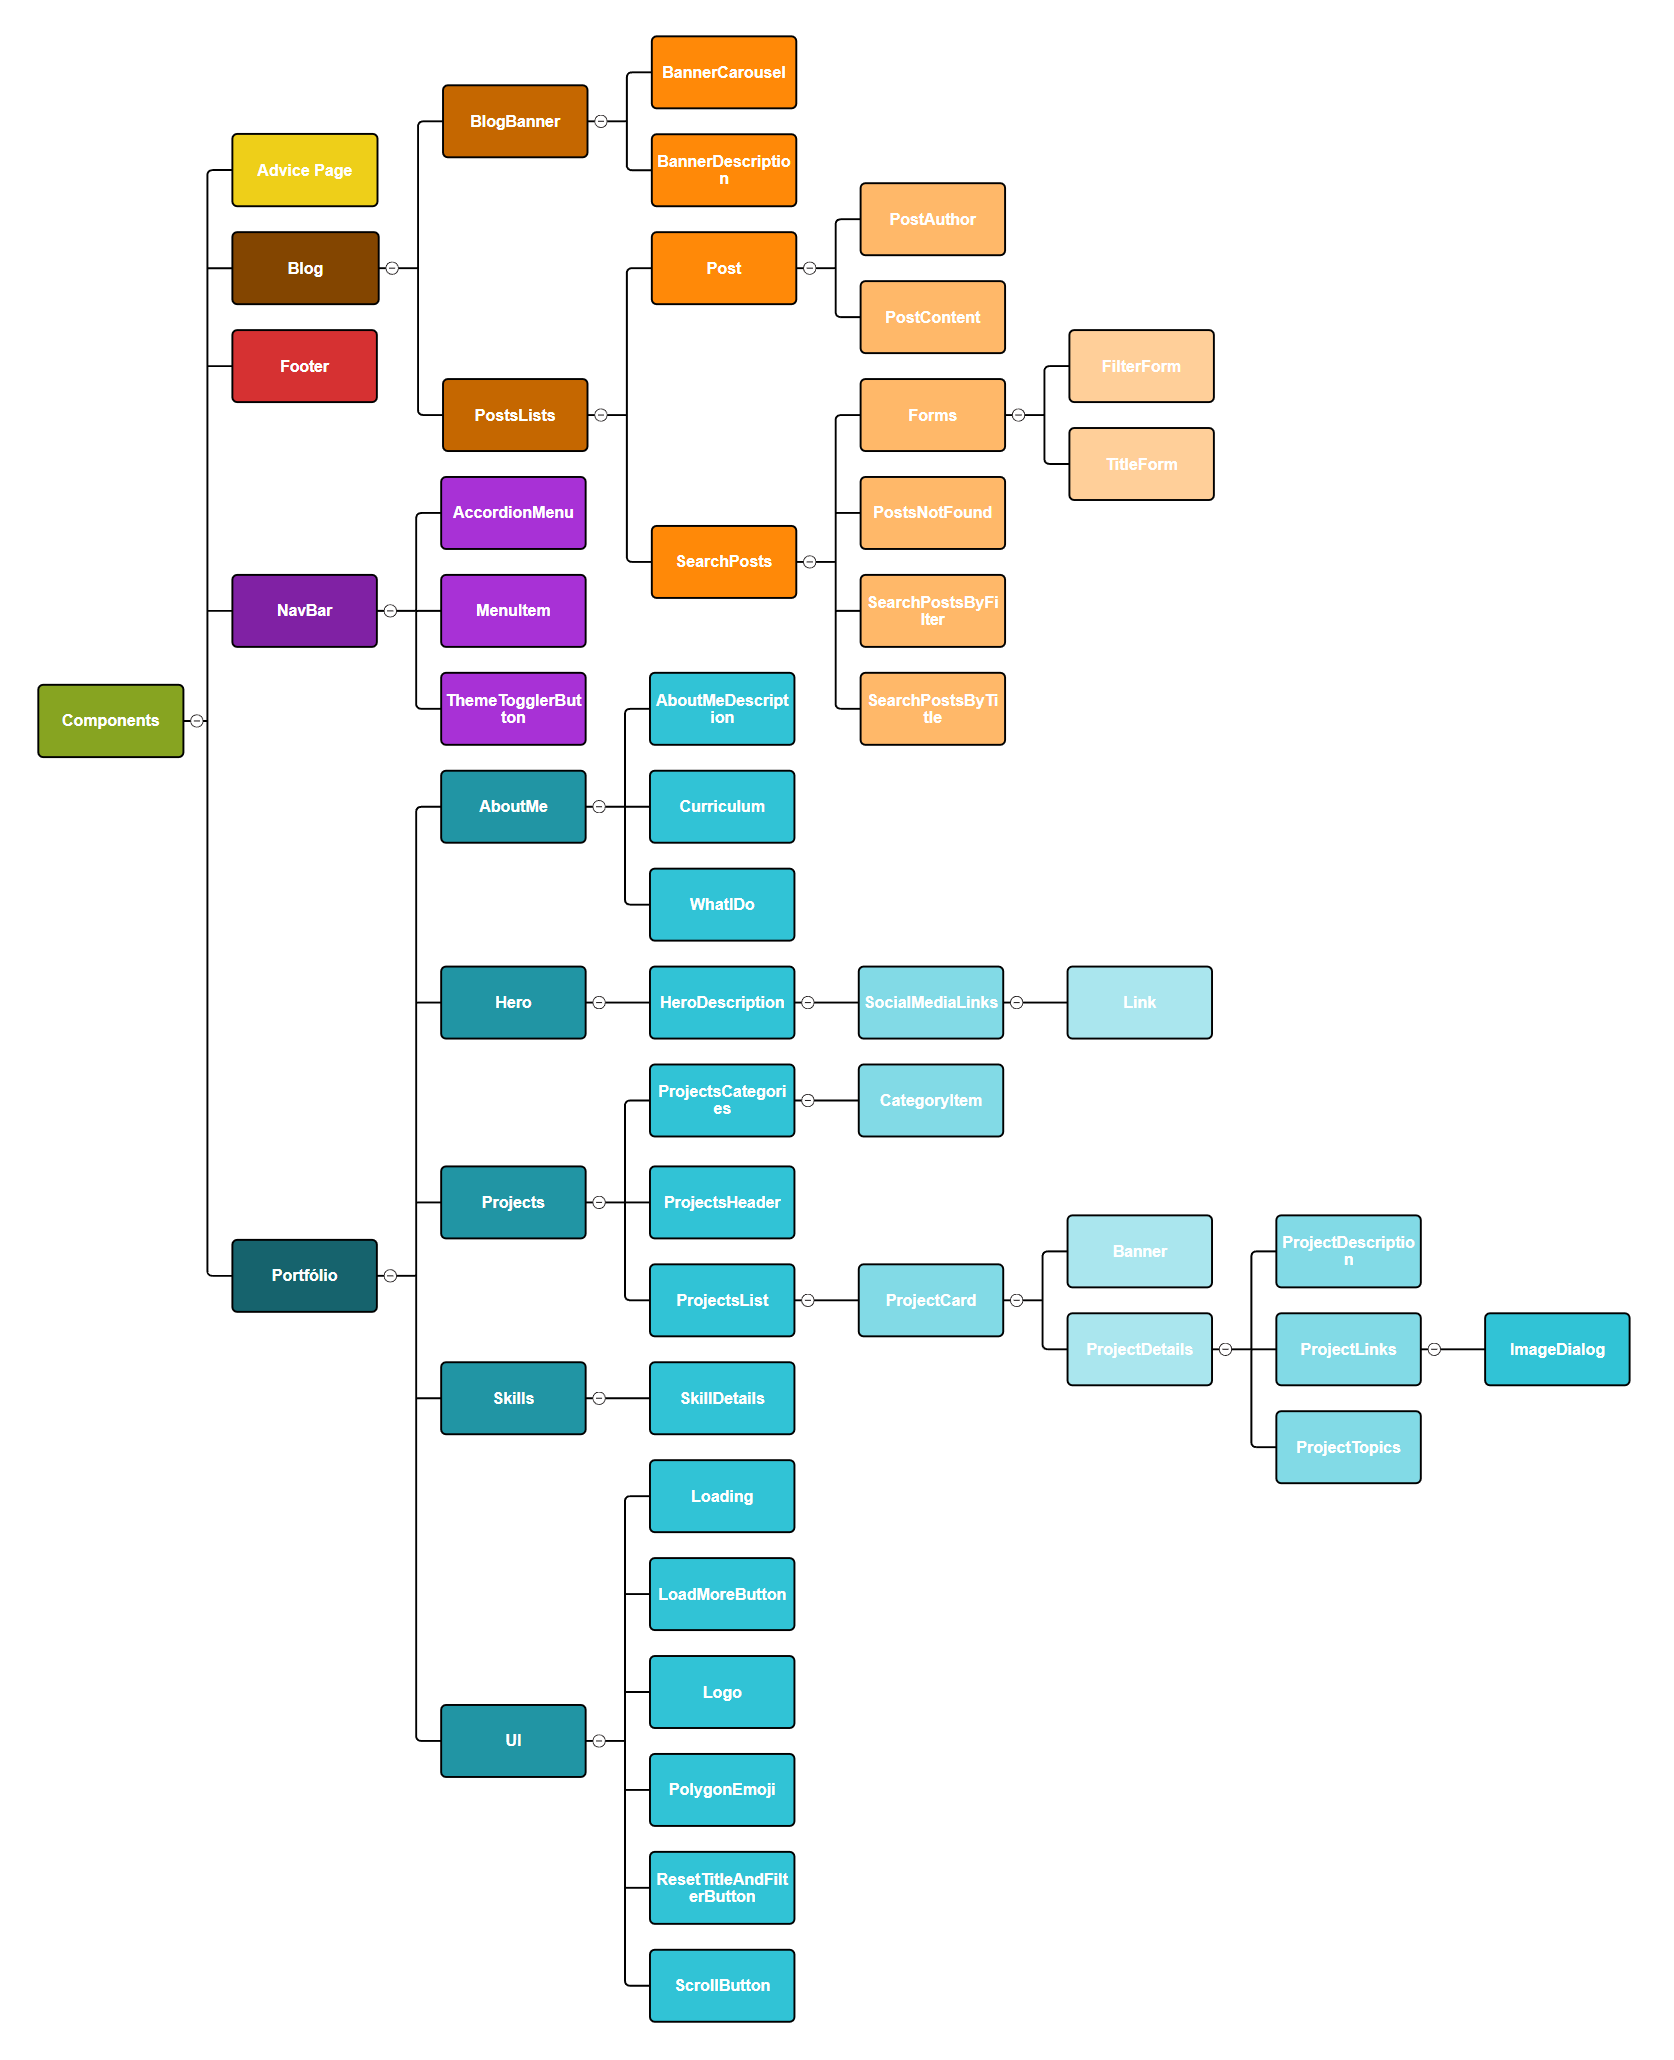
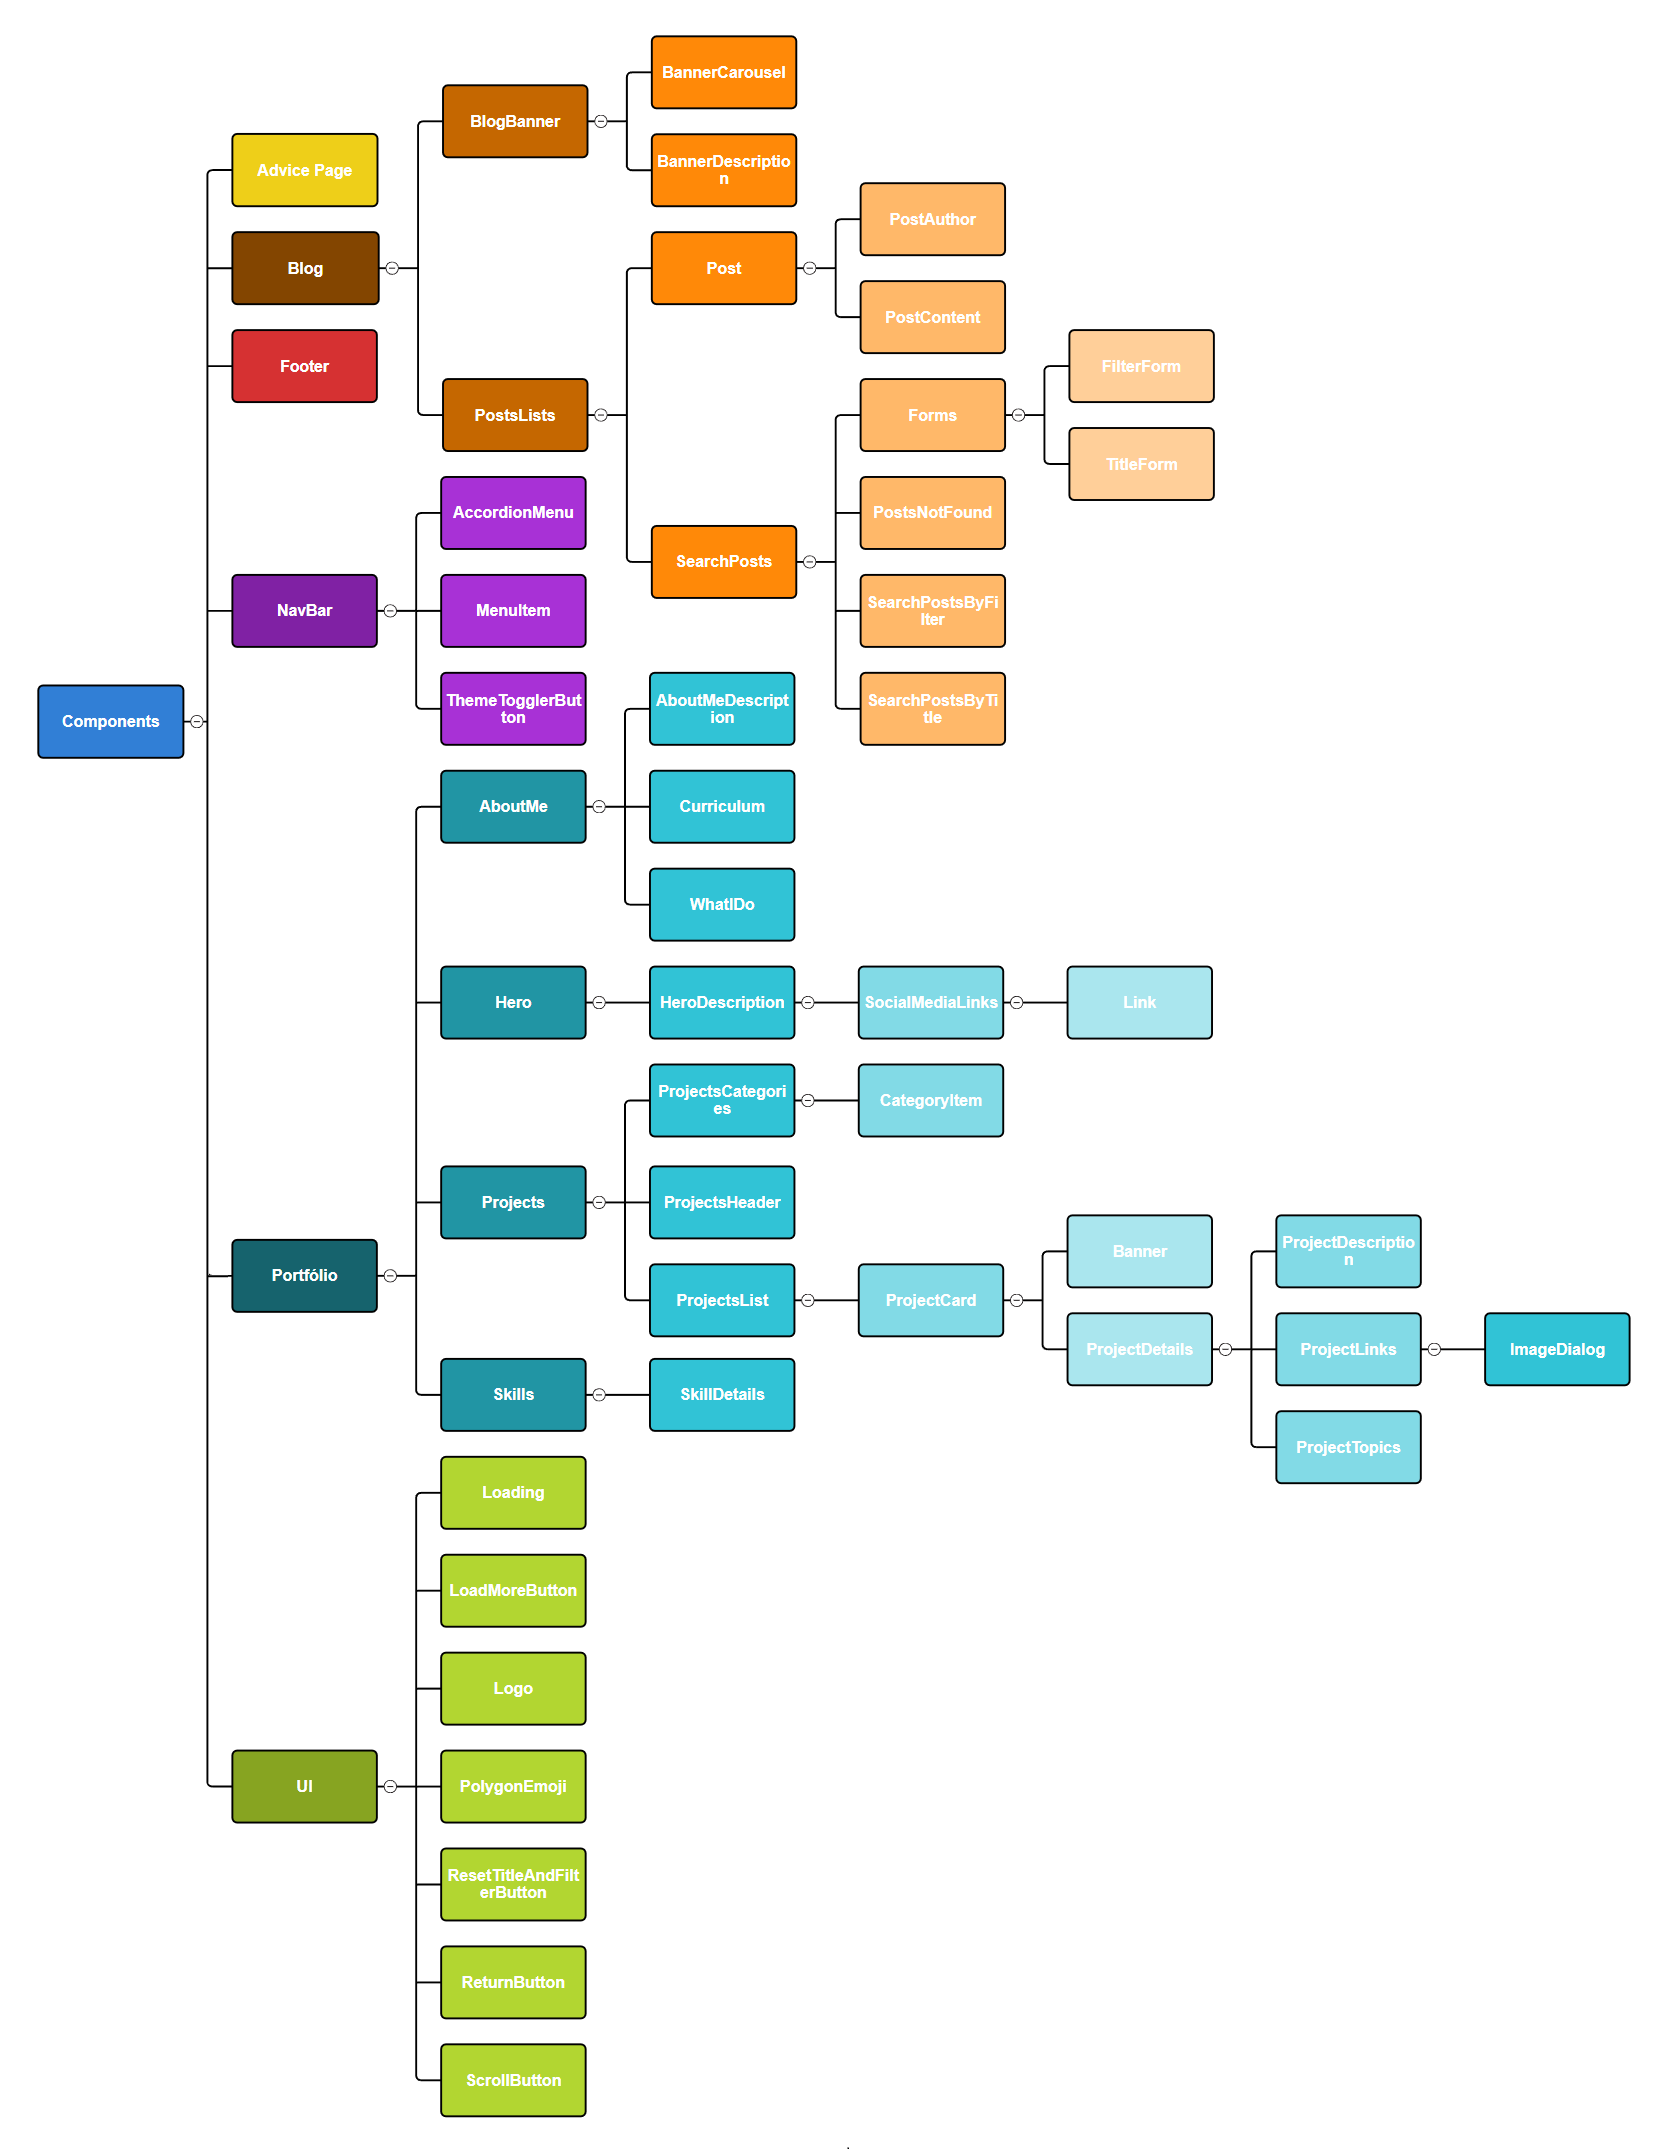
some adjusts and keep writing readme

Changed region(s): [[0.1243, 0.0311, 0.994, 0.9942], [0.1243, 0.0621, 0.2485, 0.2175], [0.0, 0.3107, 0.1243, 0.3728]]

diff --git a/src/main.tsx b/src/main.tsx
@@ -3,7 +3,6 @@ import { createRoot } from "react-dom/client";
 import { App } from "./App.tsx";
 import "./index.css";
 import "@radix-ui/themes/styles.css";
-import { ThemeProvider } from "@contexts/themeTogglerContext.tsx";
 import { ApolloProvider } from "@apollo/client";
 import { client } from "utils/blogApi.ts";
 import { SearchPostByTitleProvider } from "@contexts/searchPostByTitleContext.tsx";
@@ -12,13 +11,11 @@ import { FilterPostsProvider } from "@contexts/filterPostsContext.tsx";
 createRoot(document.getElementById("root")!).render(
   <StrictMode>
     <ApolloProvider client={client}>
-      <ThemeProvider>
         <SearchPostByTitleProvider>
           <FilterPostsProvider>
               <App />
           </FilterPostsProvider>
         </SearchPostByTitleProvider>
-      </ThemeProvider>
     </ApolloProvider>
   </StrictMode>
 );

diff --git a/src/components/navbar/themeTogglerButton/index.tsx b/src/components/navbar/themeTogglerButton/index.tsx
@@ -1,12 +1,17 @@
-import { useTheme } from "@contexts/themeTogglerContext";
 import { faAdjust } from "@fortawesome/free-solid-svg-icons";
 import { FontAwesomeIcon } from "@fortawesome/react-fontawesome";
+import { useState } from "react";
 
 export const ThemeToggleButton = () => {
-  const { theme, toggleTheme } = useTheme();
+  const [theme, setTheme] = useState("dark");
   const themeIsLight = theme === "light"
-  
 
+  const toggleTheme = () => {
+    const newTheme = theme === "dark" ? "light" : "dark";
+    setTheme(newTheme);
+    document.body.classList.toggle("light", newTheme === "light");
+  };
+  
   return (
     <button onClick={toggleTheme} className="size-10 cursor-pointer bg-none border-none">
       <FontAwesomeIcon

diff --git a/src/components/ui/polygonEmoji/index.tsx b/src/components/ui/polygonEmoji/index.tsx
@@ -1,4 +1,4 @@
-import vector from "@assets/vector.png";
+import vector from "@assets/imgs/vector.png";
 import { IconDefinition } from "@fortawesome/free-solid-svg-icons";
 import { FontAwesomeIcon } from "@fortawesome/react-fontawesome";
 

diff --git a/src/App.tsx b/src/App.tsx
@@ -1,4 +1,4 @@
-import customBg from "@assets/custom-background.png";
+import customBg from "@assets/imgs/custom-background.png";
 import { ScrollButton } from "@components/ui/scrollButton";
 import { AppRoutes } from "@pages/appRoutes";
 

diff --git a/src/components/portfolio/projects/projectsList/projectCard/banner/index.tsx b/src/components/portfolio/projects/projectsList/projectCard/banner/index.tsx
@@ -1,4 +1,4 @@
-import imageNotFound from "@assets/image-not-found.jpg";
+import imageNotFound from "@assets/imgs/image-not-found.jpg";
 import { ProjectProps } from "utils/types";
 
 export const Banner = ({ project }: ProjectProps) => {

diff --git a/src/components/portfolio/hero/index.tsx b/src/components/portfolio/hero/index.tsx
@@ -1,4 +1,4 @@
-import heroImage from "@assets/hero-image.png";
+import heroImage from "@assets/imgs/hero-image.png";
 import { HeroDescription } from "./heroDescription";
 
 export const Hero = () => {

diff --git a/README.md b/README.md
@@ -14,6 +14,13 @@ Veja o projeto completo na web em: [Portfólio Felipe Santiago](https://portfoli
   - [Dependências de Desenvolvimento](#dependências-de-desenvolvimento)
 - [Objetivos do projeto](#objetivos-do-projeto)
 - [Funcionalidades](#funcionalidades)
+  - [Footer](#footer)
+  - [NavBar](#navbar)
+    - [Esquema de troca de temas](#esquema-de-troca-de-temas)
+      - [Componente ThemeTogglerButton](#componente-themetogglebutton)
+      - [Funcionamento](#funcionamento)
+  - [Advice Page](#advice-page)
+  - [Portfólio](#portfólio)
 
 ## Imagens
 
@@ -86,4 +93,137 @@ Veja o projeto completo na web em: [Portfólio Felipe Santiago](https://portfoli
   - Landing page sobre meu trabalho e links para contato.
 
 ## Funcionalidades
+
+O esquema de organização de pastas é possível ser vista neste diagrama:
+
+<img src="./src/assets/imgs/foldersSchema.png" alt="Diagrama das pastas" />
+
+Há outras pastas que possuem as imagens, páginas, funções, queries, interfaces e tipos, etc. Mas vamos resumir a funcionalidade do projeto através de seus componentes. Não vamos explicá-los em ordem, mas sim no nível de complexidade do componente.
+
+### Footer
+
+O Footer é o rodapé da página onde é possível visualizar a logo, os links de navegação da página e os links das redes sociais. Nenhuma lógica complexa.
+
+### NavBar
+
+A barra de navegação incorpora todo o cabeçalho, contendo os links de navegação no `AccordionMenu`, o `MenuItem` seria o link individual do menu, transformado em um componente reutilizável, para que não importa quantos links sejam adicionados, só será necessário adicioná-lo no arquivo json que comporta algumas informações do arquivo e ela será chamada no método `map` dentro do `NavBar` e renderizada. Por fim, o esquema de troca de tema da página foi focada no `ThemeTogglerButton`.
+
+#### Esquema de troca de temas
+
+Nossa aplicação utiliza TailwindCSS para estilizações, e personalizamos cores, fontes e outros aspectos no arquivo `tailwind.config.js`. A configuração abaixo demonstra como as variáveis de CSS são usadas para permitir a troca de temas:
+
+```js
+export default {
+  content: ["./index.html", "./src/**/*.{js,ts,jsx,tsx}"],
+  darkMode: "class",
+  theme: {
+    extend: {
+      colors: {
+        primary: "var(--primary)",
+        secondary: "var(--secondary)",
+        tertiary: "var(--tertiary)",
+        bg: "var(--bg)",
+        panel: "var(--panel)",
+        secondaryPanel: "var(--secondaryPanel)",
+        textColor: "var(--textColor)",
+        hoverEffect: "var(--hoverEffect)"
+      },
+      // ...
+```
+
+Com a propriedade `darkMode` ativada, o TailwindCSS reconhece que a aplicação alternará entre os modos dark e light. As cores são configuradas com a função `var(--nome)` para fazer referência às variáveis CSS definidas no arquivo de estilo principal, no nosso caso, em `"./src/index.css"`.
+
+O tema dark é o padrão da aplicação, e as cores são definidas diretamente no `:root` (as variáveis de estilo raiz). Já para o tema light, utilizamos a classe `.light`, que contém as variáveis CSS correspondentes:
+
+```css
+.light {
+  --primary: #00bd95;
+  --secondary: #19584f;
+  --tertiary: #f3eeea;
+  --bg: #d8d2c2;
+  --panel: #f3eeeab0;
+  --secondaryPanel: #dfd6c6;
+  --textColor: #000000;
+  --hoverEffect: #dadada;
+}
+
+:root {
+  --primary: #00bd95;
+  --secondary: #19584f;
+  --tertiary: #20272f;
+  --bg: #303135;
+  --panel: #20272fc7;
+  --secondaryPanel: #171c22;
+  --textColor: #ffffff;
+  --hoverEffect: #ffffff;
+}
+```
+
+### Componente ThemeToggleButton
+
+Para alternar entre os temas, criamos o componente `ThemeToggleButton`, que gerencia a troca do tema globalmente. Ele utiliza o `useState` para armazenar o estado atual do tema e, ao clicar no botão, a função `toggleTheme` é acionada, alterando a classe `light` no `body`, o que permite alternar facilmente entre os temas sem precisar modificar outros componentes.
+
+```tsx
+import { useState } from "react";
+
+export const ThemeToggleButton = () => {
+  const [theme, setTheme] = useState("dark");
+
+  const toggleTheme = () => {
+    const newTheme = theme === "dark" ? "light" : "dark";
+    setTheme(newTheme);
+    document.body.classList.toggle("light", newTheme === "light");
+  };
+  
+  return (
+    <button onClick={toggleTheme}>
+      {/*...Resto do código*/}
+    </button>
+  );
+};
+```
+
+### Funcionamento
+
+- O tema dark é definido como padrão e está nas variáveis de `:root`.
+- Ao clicar no botão, o estado do tema é alternado entre **dark** e **light**, e a classe `light` é adicionada ou removida do body, aplicando as novas cores definidas no CSS.
+
+Com essa abordagem, o tema é alternado globalmente, simplificando a gestão de estilos para toda a aplicação.
+
+### Advice Page
+
+Componente reutilizável em todos os locais onde há um aviso, como página não encontrada, página em desenvolvimento, conteúdo não encontrado, entre outros. Já que todos estes avisos seguiam o mesmo padrão de estilização, com pequenas alterações, o componente `AdvicePage` foi criado. Esta é o `type` das props deste componente, que podem ser alternadas.
+
+```tsx
+type AdvicePageProps = {
+  title: string;
+  adviceMessage: string;
+  route: string;
+  buttonText: string;
+  icon: IconDefinition;
+  polygonEmojiMessage?: string;
+};
+```
+
+Este é o resultado:
+
+![Advice page](./src/assets/screenshots/advicePage.png)
+
+De cima para baixo temos:
+- `title: string`
+- `icon: IconDefinition`: IconDefinition é a tipagem fornecida pela biblioteca FontAwesome para os ícones
+- `polygonEmojiMessage?: string`
+- `adviceMessage: string`
+- `buttonText: string`
+- `route: string`: é a rota onde o componente `Link` fornecido pelo [react-router-dom](https://reactrouter.com/) irá redirecionar o usuário diante desta página.
+
+### Portfólio
+
+Aqui fica a estrutura inicial do projeto, onde chamaríamos de **Home**, onde possui os componentes:
+
+- Hero: Apresentação inicial do site
+- AboutMe: Responsável por destacar informações sobre mim, Felipe.
+- Projects: Os projetos do portfólio, onde abordaremos mais o uso do [github-automated-repos](https://www.npmjs.com/package/github-automated-repos), responsável por vincular nosso projeto ao GitHub.
+- Skills: Detalhes sobre softskills e habilidades técnicas na área de programação
+- UI: Pequenos componentes reutilizáveis ao longo de toda aplicação, como botões, componentes de carregamento, etc.
 
